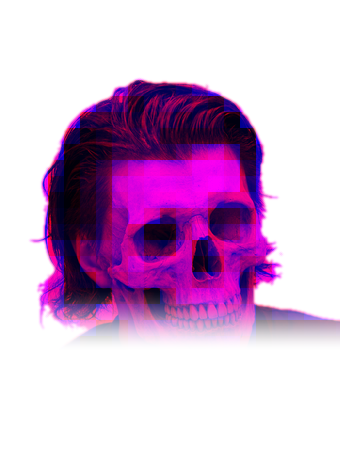
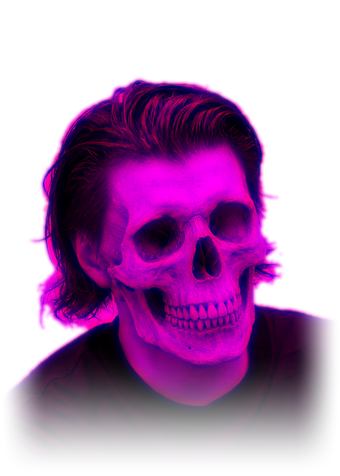
Blur the face instead of pixelating it, and keep the shirt
The shoulders are back. What was wrong was not the shirt but the frame: the
sitter runs off three sides of the photograph and ended on straight cuts,
which reads as a torn-out rectangle rather than a figure. The mask now fades
towards the borders, generously at the bottom where the shoulders leave.

The face softens rather than tiles. Blurring the tone is only half of it -
sharply placed points over a blurred tone still read as sharp, because the
eye takes the focus from the dots and not from the values - so the points
are thrown off station by about the blur radius as well, and given more room
to wander since they have no fine detail left to hold.

diff --git a/particles.js b/particles.js
@@ -33,8 +33,8 @@
   var YAW_CENTRE = Math.PI + 0.30;
   var YAW_SWING = 0.38;         // how far either side of that it sways
   var EXPOSURE = 1.15;          // additive exposure for the busts
-  var MOSAIC_CELL = 16;         // px in the source image; must match the asset
-  var MOSAIC_STRENGTH = 0.7;    // how far the face's tone goes towards flat
+  var FACE_SOFTEN = 0.9;        // how far the face goes towards its blurred copy
+  var FACE_SCATTER = 0.011;     // and how far its points are thrown off station
   var SHED_FRACTION = 0.20;     // share of points caught up in the shedding
   var SHED_DIST = 0.62;         // how far a shed point drifts before it is gone
   var FOG_RADIUS = 3.4;         // fog cylinder radius, camera sits inside it
@@ -404,30 +404,32 @@
       // that is left here is to blend towards the flat value and to punch a
       // gutter between the cells - without the gutter a scatter of points
       // sharing one tone has no edges, and reads as a smudge, not a grid.
-      // The grid comes from the gutter, which is geometry, so it stays crisp at
-      // full face weight while the tone only goes part of the way flat - that
-      // leaves the eye sockets and the shadow under the nose just about there.
+      // The face is softened. Tone comes from the blurred copy in the asset, but
+      // that alone is not enough: sharply placed points over a blurred tone
+      // still read as sharp, because the eye takes the focus from the dots, not
+      // from the values. So the points are thrown off station by about the blur
+      // radius as well.
       var faceW = px[o + 1] / 255;
-      if (faceW > 0.02) {
-        tone += (px[o + 2] / 255 - tone) * faceW * MOSAIC_STRENGTH;
-        var fu = (u * w / MOSAIC_CELL) % 1;
-        var fv = (v * h / MOSAIC_CELL) % 1;
-        var edge = Math.min(Math.min(fu, 1 - fu), Math.min(fv, 1 - fv));
-        if (edge < 0.16 * faceW) continue;
-      }
+      var soft = faceW * FACE_SOFTEN;
+      if (soft > 0.02) tone += (px[o + 2] / 255 - tone) * soft;
 
       // Weighted well towards the lit areas: at this sparsity a flat floor
       // spends points on the dark shirt that the face needs.
       if (Math.random() > (0.06 + 0.94 * Math.pow(tone, 1.25)) * mask) continue;
 
       var x = (u - 0.5) * modelW, y = 0.5 - v;
+      if (soft > 0.02) {
+        var sr = FACE_SCATTER * soft;
+        x += (Math.random() + Math.random() + Math.random() - 1.5) * sr;
+        y += (Math.random() + Math.random() + Math.random() - 1.5) * sr;
+      }
       var len = Math.sqrt(x * x + y * y) || 1;
 
       var k = placed * STRIDE;
       data[k] = x;
       data[k + 1] = y;
       data[k + 2] = (Math.random() - 0.5) * 0.012;   // a sheet, with a little body
-      data[k + 3] = 0.0016 + Math.random() * 0.0030;
+      data[k + 3] = 0.0016 + Math.random() * 0.0030 + soft * 0.0035;
       data[k + 4] = x / len;                          // outward, within the plane
       data[k + 5] = y / len;
       data[k + 6] = 0.30;

diff --git a/tools/photo2particles.py b/tools/photo2particles.py
@@ -6,8 +6,8 @@
 Channels, all of which the sampler reads:
 
     R  tone, contrast-stretched over the sitter only
-    G  how much of a face this pixel is, which is where the mosaic applies
-    B  tone averaged per mosaic cell
+    G  how much of a face this pixel is, which is where the softening applies
+    B  the same tone, heavily blurred
     A  the cut-out: the sitter, not the wall behind him
 
 The mask is the part that matters. The wall is brighter than the sitter, so
@@ -15,7 +15,8 @@ sampling on tone alone lights the wall and loses the man. It is found by
 flooding the bright region in from the border, so highlights *inside* the face
 stay part of the subject instead of being punched out as holes.
 
-MOSAIC_CELL must stay in step with the constant of the same name in particles.js.
+particles.js blends R towards B by G, and scatters the points there to match:
+a blurred tone under sharply placed points still reads as sharp.
 """
 import sys
 from collections import deque
@@ -24,12 +25,14 @@ import numpy as np
 from PIL import Image
 
 WIDTH, HEIGHT = 340, 476
-MOSAIC_CELL = 16
+FACE_BLUR = 60       # blur passes over the face; sigma is about sqrt(0.8 * this)
 WALL = 0.90          # a pixel this bright, reachable from the border, is wall
-# Only the head is wanted. The silhouette holds a steady width down to the chin
-# and then flares where the shoulders start, so the mask is faded out across
-# that band: the jaw stays, the neck dissolves, the shirt goes.
-HEAD_FADE = (0.60, 0.74)
+# Wherever the sitter runs off the edge of the photograph he ends on a straight
+# cut, which reads as a torn-out rectangle rather than a figure. Fade the mask
+# towards the borders so those edges dissolve instead. Generous at the bottom,
+# where the shoulders leave the frame; barely anything at the top, which the
+# head does not reach.
+EDGE_FADE = {'x': 0.14, 'top': 0.05, 'bottom': 0.26}
 
 
 def blur(m, passes):
@@ -66,11 +69,17 @@ def subject_mask(lum):
 
     mask = (~wall).astype(np.float32)
 
-    v = (np.arange(h, dtype=np.float32) + 0.5) / h
-    t = np.clip((v - HEAD_FADE[0]) / (HEAD_FADE[1] - HEAD_FADE[0]), 0, 1)
-    mask *= (1 - t * t * (3 - 2 * t))[:, None]
+    def ramp(d):
+        t = np.clip(d, 0, 1)
+        return t * t * (3 - 2 * t)
 
-    return blur(mask, 3)
+    u = (np.arange(w, dtype=np.float32) + 0.5) / w
+    v = (np.arange(h, dtype=np.float32) + 0.5) / h
+    mask *= ramp(np.minimum(u, 1 - u) / EDGE_FADE['x'])[None, :]
+    mask *= ramp(v / EDGE_FADE['top'])[:, None]
+    mask *= ramp((1 - v) / EDGE_FADE['bottom'])[:, None]
+
+    return blur(mask, 5)
 
 
 def face_weight(rgb, mask):
@@ -79,16 +88,6 @@ def face_weight(rgb, mask):
     skin = ((r > 95) & (g > 40) & (b > 20) & (span > 15)
             & (np.abs(r - g) > 15) & (r > g) & (r > b)).astype(np.float32)
     return np.clip(blur(skin, 14) * 2.2, 0, 1) * mask
-
-
-def cell_average(tone):
-    out = tone.copy()
-    h, w = tone.shape
-    for y in range(0, h, MOSAIC_CELL):
-        for x in range(0, w, MOSAIC_CELL):
-            out[y:y + MOSAIC_CELL, x:x + MOSAIC_CELL] = \
-                tone[y:y + MOSAIC_CELL, x:x + MOSAIC_CELL].mean()
-    return out
 
 
 def main(src, dst, mosaic):
@@ -105,7 +104,7 @@ def main(src, dst, mosaic):
     out = np.zeros((HEIGHT, WIDTH, 4), np.uint8)
     out[:, :, 0] = (tone * 255).astype(np.uint8)
     out[:, :, 1] = (face * 255).astype(np.uint8)
-    out[:, :, 2] = (cell_average(tone) * 255).astype(np.uint8)
+    out[:, :, 2] = (blur(tone, FACE_BLUR) * 255).astype(np.uint8)
     out[:, :, 3] = (mask * 255).astype(np.uint8)
     Image.fromarray(out, 'RGBA').save(dst, optimize=True)
 
